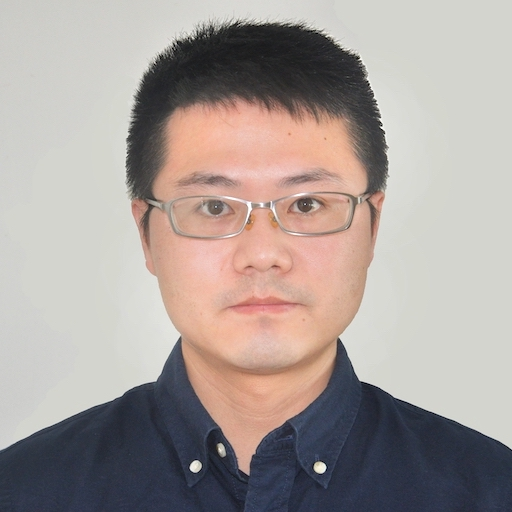
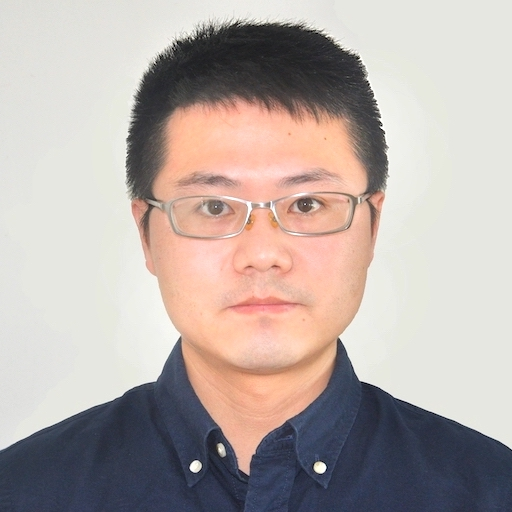
update people

diff --git a/people.html b/people.html
@@ -384,7 +384,7 @@ justify-content:center}
 <div class="column1" style="padding-left:0">
 	<div class='card-horizontal' style="width:100%; align-items: center; padding: 0 0 0 0">
 		<div>
-        	<img src='uploads/people/dan_3.jpg' class='iconDetails' alt="Card image cap" style="width:85%; float:left;">
+        	<img src='uploads/people/dan_1.jpg' class='iconDetails' alt="Card image cap" style="width:85%; float:left;">
         </div> 
         <div style='margin-left:1%;'></div>
         <div class='container3' style="width:90%; font-size:90%">
@@ -503,13 +503,13 @@ justify-content:center}
     <div class="column1" style="padding-left:0">
     <div class='card-horizontal' style="width:95%; align-items: center; padding: 0 0 0 0">
         <div>
-            <img src='uploads/people/fating.png' class='iconDetails' alt="Card image cap" style="width:82%; float:left">
+            <img src='uploads/people/fating_1.jpg' class='iconDetails' alt="Card image cap" style="width:82%; float:left">
         </div>  
         <div style='margin-left:1%;'></div>
         <div class='container3' style="width:100%">
         	<h2><font size="3">Mr. Fating Hong</font></h2>
         	<p class="title"><strong><font size="3">Ph.D. Candidate</font></strong></p>
-        	<p><strong><font size="3">Previously at SYSU</font></strong></p>
+        	<p><strong><font size="3">HKUST, Previously at SYSU</font></strong></p>
         	<p><font size="3"><strong>Research Interests: </strong>Human and activity understanding</font></p>
         	<p><font size="3"><strong><span style="font-size:22px;">&#x2709;</span> Email:</strong> hongft3 AT sysu.edu.cn</font></p>
         	<p><button type="button" style="font-size:15px;"><a style="color:blue" target="_blank" href=" https://harlanhong.github.io"><span>&#9758;</span>&nbsp;Homepage</a></button></p>
@@ -525,7 +525,7 @@ justify-content:center}
 	        <div class='container3' style="width:100%">
 	        	<h2><font size="3">Mr. Jiapeng Tang</font></h2>
 	        	<p class="title"><strong><font size="3">Ph.D. Candidate</font></strong></p>
-	        	<p><strong><font size="3">Previously at SCUT</font></strong></p>
+	        	<p><strong><font size="3">HKUST, Previously at SCUT</font></strong></p>
 	        	<p><font size="3"><strong>Research Interests: </strong>3D visual scene understanding</font></p>
 	        	<p><font size="3"><strong><span style="font-size:22px;">&#x2709;</span> Email:</strong> jptang AT scut.edu.cn</font></p>
         		<p><button type="button" style="font-size:15px;"><a style="color:blue" target="_blank" href="https://tangjiapeng.github.io/"><span>&#9758;</span>&nbsp;Homepage</a></button></p>
@@ -544,7 +544,7 @@ justify-content:center}
         <div class='container3' style="width:100%">
         	<h2><font size="3">Mr. Zhenxing Mi</font></h2>
         	<p class="title"><strong><font size="3">Ph.D. Candidate</font></strong></p>
-        	<p><strong><font size="3">Previously at HUST</font></strong></p>
+        	<p><strong><font size="3">HKUST, Previously at HUST</font></strong></p>
         	<p><font size="3"><strong>Research Interests: </strong>Deep visual SLAM</font></p>
         	<p><font size="3"><strong><span style="font-size:22px;">&#x2709;</span> Email:</strong> zmiaa AT connect.ust.hk</font></p>
         	<p><button type="button" style="font-size:15px;"><a style="color:blue" target="_blank" href=" https://mizhenxing.github.io"><span>&#9758;</span>&nbsp;Homepage</a></button></p>
@@ -560,7 +560,7 @@ justify-content:center}
 	        <div class='container3' style="width:100%">
 	        	<h2><font size="3">Mr. Hanrong Ye</font></h2>
 	        	<p class="title"><strong><font size="3">Ph.D. Candidate</font></strong></p>
-	        	<p><strong><font size="3">Previously at PKU</font></strong></p>
+	        	<p><strong><font size="3">HKUST, Previously at PKU</font></strong></p>
 	        	<p><font size="3"><strong>Research Interests: </strong>Multi-task deep scene understanding</font></p>
 	        	<p><font size="3"><strong><span style="font-size:22px;">&#x2709;</span> Email:</strong> hanrong.ye AT connect.ust.hk</font></p>
         		<p><button type="button" style="font-size:15px;"><a style="color:blue" target="_blank" href="https://sites.google.com/site/yhrspace/"><span>&#9758;</span>&nbsp;Homepage</a></button></p>
@@ -571,6 +571,22 @@ justify-content:center}
 
 <div class="row">
     <div class="column1" style="padding-left:0">
+    <div class='card-horizontal' style="width:95%; align-items: center; padding: 0 0 0 0">
+        <div>
+            <img src='uploads/people/lewei.jpg' class='iconDetails' alt="Card image cap" style="width:82%; float:left">
+        </div>  
+        <div style='margin-left:1%;'></div>
+        <div class='container3' style="width:100%">
+        	<h2><font size="3">Mr. Lewei Yao</font></h2>
+        	<p class="title"><strong><font size="3">Ph.D. Candidate (co-supervised with Prof. Tong Zhang)</font></strong></p>
+        	<p><strong><font size="3">HKUST, Previously at HIT</font></strong></p>
+        	<p><font size="3"><strong>Research Interests: </strong>Multi-Modal Deep Learning</font></p>
+        	<p><font size="3"><strong><span style="font-size:22px;">&#x2709;</span> Email:</strong> lyaoak AT connect.ust.hk</font></p>
+        	<p><button type="button" style="font-size:15px;"><a style="color:blue" target="_blank" href="https://dblp.org/pid/254/1943.html"><span>&#9758;</span>&nbsp;Homepage</a></button></p>
+		</div>
+	</div>
+  </div>
+  <div class="column1" style="padding-left:0">
     <div class='card-horizontal' style="width:95%; align-items: center; padding: 0 0 0 0">
         <div>
             <img src='uploads/people/xinzhuma.jpg' class='iconDetails' alt="Card image cap" style="width:82%; float:left">
@@ -586,6 +602,10 @@ justify-content:center}
 		</div>
 	</div>
   </div>
+</div>
+
+<div class="row">
+
    <div class="column1" style="padding-left:0">
    <div class='card-horizontal' style="width:95%; align-items: center; padding: 0 0 0 0">
 	        <div>
